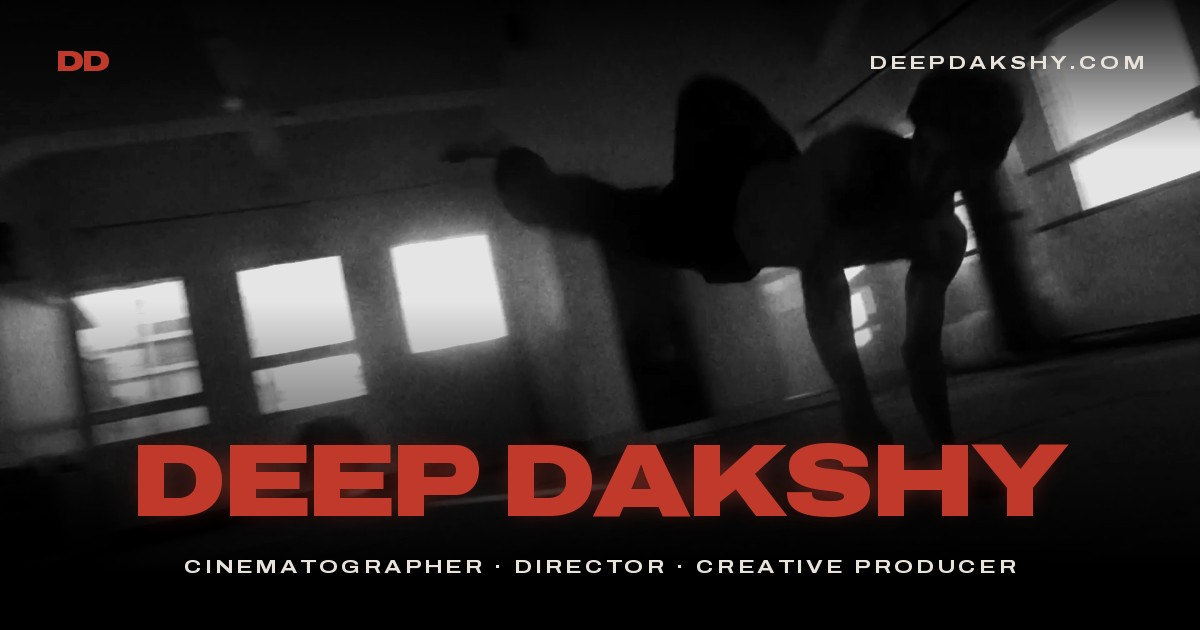
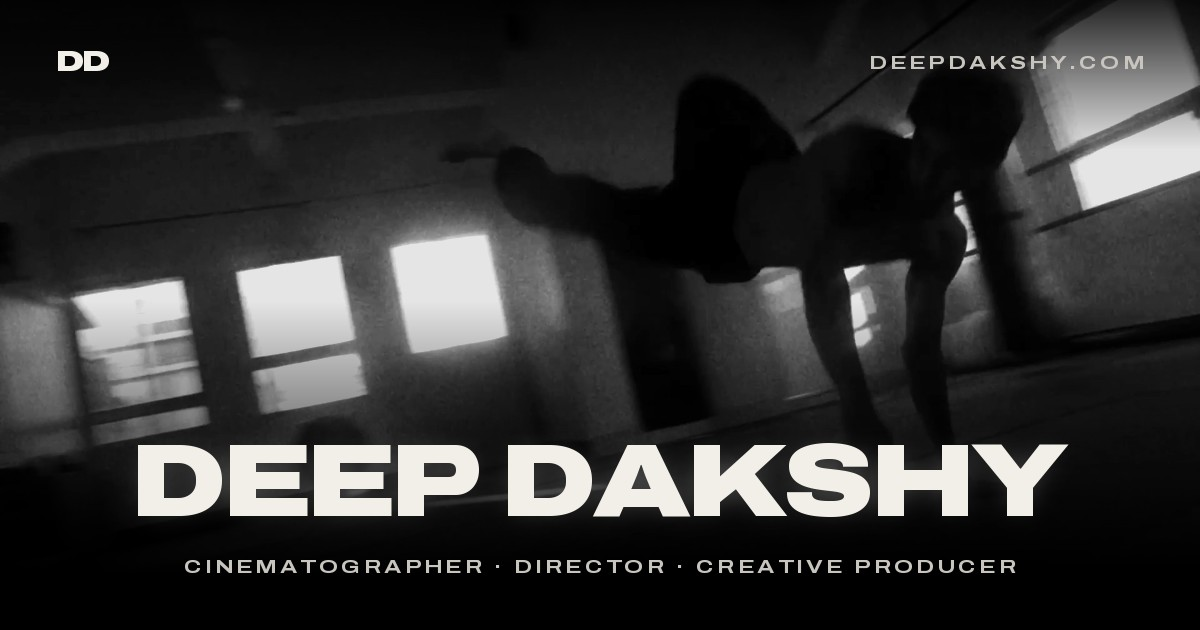
Add files via upload

diff --git a/css/site.css b/css/site.css
@@ -3,17 +3,17 @@
 
 :root {
   --bg: #000000;
-  --surface: #140807;
-  --line: #5A1712;
-  --line-dim: #2A0D0A;
-  --red: #C0392B;
-  --red-hot: #E74C3C;
-  --tint: #7A1410;
+  --surface: #121212;
+  --line: #3A3A3A;
+  --line-dim: #1E1E1E;
+  --red: #F2EEE8;
+  --red-hot: #FFFFFF;
+  --tint: #3A3A3A;
   --text: #E8E2DA;
   --text-2: #D4CCC2;
-  --muted: #B9B0A6;
-  --dim: #8A817A;
-  --glow: 0 0 14px rgba(192, 57, 43, .55);
+  --muted: #A9A49E;
+  --dim: #7E7A75;
+  --glow: 0 0 16px rgba(255, 255, 255, .28);
   --pad: 20px;
   --max: 1440px;
 }
@@ -31,7 +31,6 @@ body {
 }
 img, video { display: block; max-width: 100%; }
 a { color: inherit; text-decoration: none; }
-a:hover { color: var(--red-hot); }
 button { font: inherit; color: inherit; background: none; border: 0; padding: 0; cursor: pointer; }
 :focus-visible { outline: 2px solid var(--red-hot); outline-offset: 3px; }
 @media (prefers-reduced-motion: reduce) { html { scroll-behavior: auto; } }
@@ -68,13 +67,11 @@ button { font: inherit; color: inherit; background: none; border: 0; padding: 0;
   padding: 18px 20px; background: var(--red); color: #000;
   font-weight: 800; font-stretch: 125%; font-size: 15px; letter-spacing: .04em;
 }
-.btn-red:hover { background: var(--red-hot); color: #000; }
 .btn-more {
   display: block; width: 100%; margin-top: 8px; padding: 15px 0;
   border: 1.5px solid var(--red); color: var(--text);
   font-weight: 700; font-stretch: 125%; font-size: 11px; letter-spacing: .16em;
 }
-.btn-more:hover { background: var(--red); color: #000; }
 .btn-more[hidden] { display: none; }
 
 /* ── Home hero ────────────────────────────────────────── */
@@ -101,10 +98,10 @@ button { font: inherit; color: inherit; background: none; border: 0; padding: 0;
 .intro__text { display: flex; flex-direction: column; gap: 24px; position: relative; }
 
 .duotone { position: absolute; inset: 0; width: 100%; height: 100%; object-fit: cover; filter: grayscale(1) contrast(1.15) brightness(.75); }
-.duotone-tint { position: absolute; inset: 0; background: var(--tint); mix-blend-mode: multiply; opacity: .5; }
+.duotone-tint { position: absolute; inset: 0; background: var(--tint); mix-blend-mode: multiply; opacity: .25; }
 
-.stats { display: grid; grid-template-columns: repeat(3, auto); justify-content: space-between; border-top: 1px solid var(--line); border-bottom: 1px solid var(--line); }
-.stats--4 { grid-template-columns: repeat(2, minmax(0, 1fr)); justify-content: stretch; }
+.stats { display: grid; grid-template-columns: repeat(3, auto); justify-content: space-between; column-gap: 20px; border-top: 1px solid var(--line); border-bottom: 1px solid var(--line); }
+.stats--4 { grid-template-columns: repeat(2, minmax(0, 1fr)); justify-content: stretch; column-gap: 0; }
 .stat { padding: 18px 8px 18px 0; display: flex; flex-direction: column; gap: 6px; }
 .stats--4 .stat { border-bottom: 1px solid var(--line); }
 .stat__n { font-weight: 900; font-stretch: 125%; font-size: 36px; line-height: 1; letter-spacing: -.04em; color: var(--red); }
@@ -128,10 +125,9 @@ button { font: inherit; color: inherit; background: none; border: 0; padding: 0;
 .card__frame { position: relative; aspect-ratio: 16 / 9; background: var(--surface); overflow: hidden; }
 .card--v .card__frame { aspect-ratio: 9 / 16; }
 .card__frame img { width: 100%; height: 100%; object-fit: cover; transition: transform .6s ease, filter .6s ease; }
-.card:hover .card__frame img { transform: scale(1.03); }
 .card__play { position: absolute; right: 12px; bottom: 12px; width: 16px; height: 16px; fill: var(--text); }
 .card__tag { position: absolute; left: 12px; top: 12px; padding: 5px 8px; background: var(--red); color: #000; font-weight: 700; font-stretch: 125%; font-size: 10px; letter-spacing: .12em; text-transform: uppercase; }
-.card__ph { position: absolute; inset: 0; display: flex; align-items: center; justify-content: center; padding: 16px; text-align: center; color: #6E5550; font-weight: 700; font-stretch: 125%; font-size: 11px; letter-spacing: .14em; text-transform: uppercase; }
+.card__ph { position: absolute; inset: 0; display: flex; align-items: center; justify-content: center; padding: 16px; text-align: center; color: #5E5A55; font-weight: 700; font-stretch: 125%; font-size: 11px; letter-spacing: .14em; text-transform: uppercase; }
 .card__meta { display: flex; justify-content: space-between; align-items: baseline; gap: 12px; }
 .card__title { text-transform: uppercase; font-weight: 800; font-stretch: 125%; font-size: 18px; letter-spacing: .03em; line-height: 1.05; }
 .card--v .card__title { font-size: 13px; line-height: 1.15; }
@@ -191,7 +187,6 @@ body.no-scroll { overflow: hidden; }
 .footer__links > div { display: flex; gap: 18px; }
 .footer__links a { padding: 12px 0; }
 .social { display: inline-flex; align-items: center; justify-content: center; min-width: 44px; min-height: 44px; padding: 0 !important; color: var(--text); }
-.social:hover { color: var(--red-hot); }
 .footer__links > div { align-items: center; gap: 4px !important; margin-left: -11px; }
 
 /* ── Desktop ──────────────────────────────────────────── */
@@ -221,9 +216,12 @@ body.no-scroll { overflow: hidden; }
   .intro__figure { position: absolute; top: 0; right: 0; width: 57%; height: 100%; aspect-ratio: auto; }
   .intro__figure::after { content: ""; position: absolute; inset: 0; background: linear-gradient(to right, #000 0%, rgba(0,0,0,.6) 30%, rgba(0,0,0,0) 60%), linear-gradient(to bottom, #000 0%, rgba(0,0,0,0) 20%, rgba(0,0,0,0) 76%, #000 100%); }
   .stat__n { font-size: 48px; }
+  .stats { justify-content: start; column-gap: 64px; }
+
   .stat__l { font-size: 11px; }
-  .stats--4 { grid-template-columns: repeat(4, minmax(0, 1fr)); }
+  .stats--4 { grid-template-columns: repeat(4, auto); justify-content: space-between; column-gap: 32px; }
   .stats--4 .stat { border-bottom: 0; }
+  .stats--4 .stat__l { max-width: 13ch; }
 
   .page-head { padding: 72px var(--pad) 40px; flex-direction: row; justify-content: space-between; align-items: flex-end; }
   .section { padding-top: 88px; }
@@ -258,4 +256,33 @@ body.no-scroll { overflow: hidden; }
   .footer__email { justify-self: center; font-size: 20px; padding: 0; }
   .footer__links { justify-self: end; gap: 28px; font-size: 11px; }
   .footer__links > div { gap: 28px; }
+}
+
+/* ── Hover & focus (only on devices that can hover) ───── */
+.btn-red { border: 1.5px solid var(--red); transition: background .25s ease, color .25s ease; }
+.btn-more { transition: background .25s ease, color .25s ease; }
+.card__frame img { filter: brightness(.82); transition: transform .6s cubic-bezier(.2,.7,.2,1), filter .4s ease; }
+.card__play { transition: transform .3s ease; }
+.door svg, .btn-red svg { transition: transform .3s cubic-bezier(.2,.7,.2,1); }
+.door__name { transition: transform .3s cubic-bezier(.2,.7,.2,1); display: inline-block; }
+.social { color: var(--muted); transition: color .2s ease, transform .2s ease; }
+.nav__links a, .footer__email, .modal__close { background: linear-gradient(currentColor, currentColor) 0 calc(100% - 8px) / 0 1.5px no-repeat; transition: background-size .3s ease, color .2s ease; }
+.footer__email { background-position: 0 100%; }
+
+@media (hover: hover) and (pointer: fine) {
+  .nav__links a:hover, .footer__email:hover, .modal__close:hover { background-size: 100% 1.5px; color: #fff; }
+  .nav__mark:hover { color: #fff; opacity: .7; }
+  .door:hover .door__name { transform: translateX(8px); color: #fff; }
+  .door:hover svg { transform: translateX(6px); }
+  .btn-red:hover { background: transparent; color: var(--red); }
+  .btn-red:hover svg { transform: translateX(4px); stroke: var(--red); }
+  .btn-more:hover { background: var(--red); color: #000; }
+  .card:hover .card__frame img { transform: scale(1.04); filter: brightness(1); }
+  .card:hover .card__play { transform: scale(1.4); }
+  .card:hover .card__title { color: #fff; }
+  .social:hover { color: #fff; transform: translateY(-2px); }
+}
+.card:focus-visible .card__frame img { filter: brightness(1); }
+@media (prefers-reduced-motion: reduce) {
+  .card__frame img, .door__name, .door svg, .btn-red svg, .social { transition: none; }
 }

diff --git a/index.html b/index.html
@@ -54,11 +54,11 @@
     <div class="doors">
       <a class="door" href="commercial.html">
         <span><span class="door__num">01</span><span class="door__name">COMMERCIALS</span></span>
-        <svg width="24" height="24" viewBox="0 0 24 24" fill="none" stroke="#E74C3C" stroke-width="1.8" aria-hidden="true"><path d="M5 12h14M13 6l6 6-6 6"/></svg>
+        <svg width="24" height="24" viewBox="0 0 24 24" fill="none" stroke="currentColor" stroke-width="1.8" aria-hidden="true"><path d="M5 12h14M13 6l6 6-6 6"/></svg>
       </a>
       <a class="door" href="art.html">
         <span><span class="door__num">02</span><span class="door__name">ART &amp; FILMS</span></span>
-        <svg width="24" height="24" viewBox="0 0 24 24" fill="none" stroke="#E74C3C" stroke-width="1.8" aria-hidden="true"><path d="M5 12h14M13 6l6 6-6 6"/></svg>
+        <svg width="24" height="24" viewBox="0 0 24 24" fill="none" stroke="currentColor" stroke-width="1.8" aria-hidden="true"><path d="M5 12h14M13 6l6 6-6 6"/></svg>
       </a>
     </div>
     <span class="t-label scroll-cue" aria-hidden="true">Scroll ↓</span>

diff --git a/cv.html b/cv.html
@@ -8,6 +8,6 @@
   <meta name="robots" content="noindex">
 </head>
 <body style="background:#000;color:#E8E2DA;font-family:sans-serif">
-  <p>This page moved to <a href="about.html" style="color:#E74C3C">about.html</a>.</p>
+  <p>This page moved to <a href="about.html" style="color:#F2EEE8">about.html</a>.</p>
 </body>
 </html>
